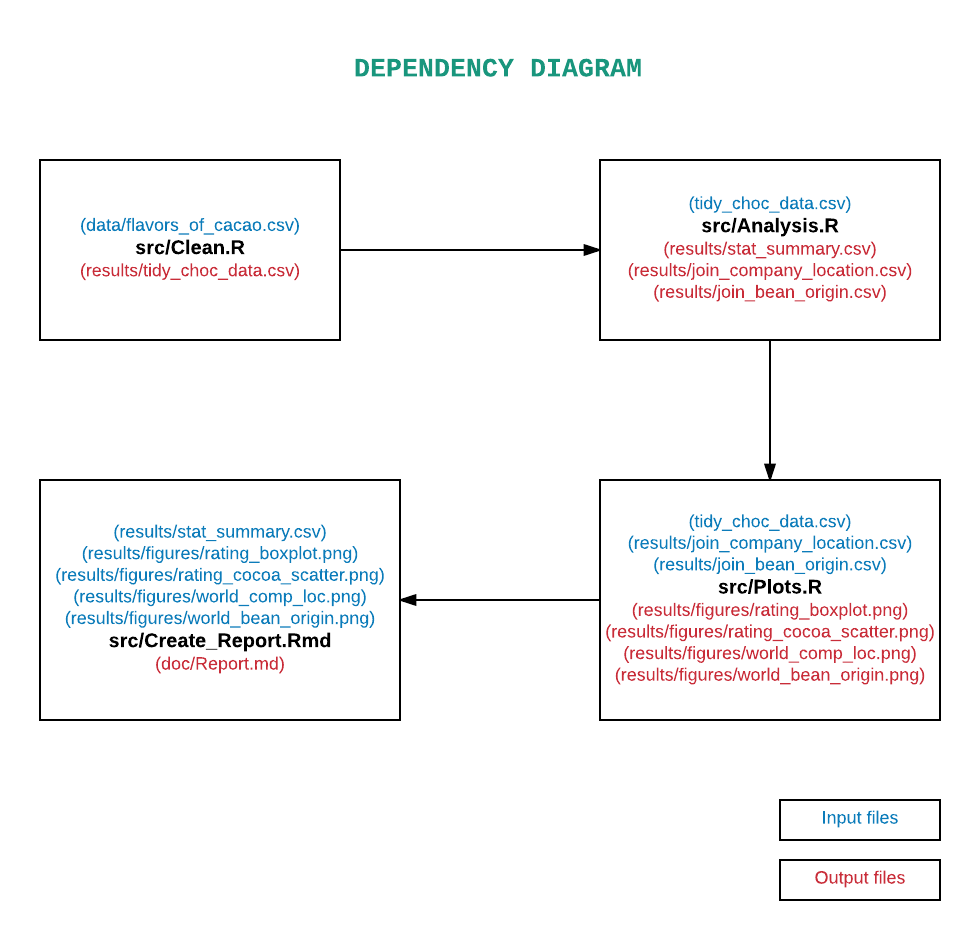
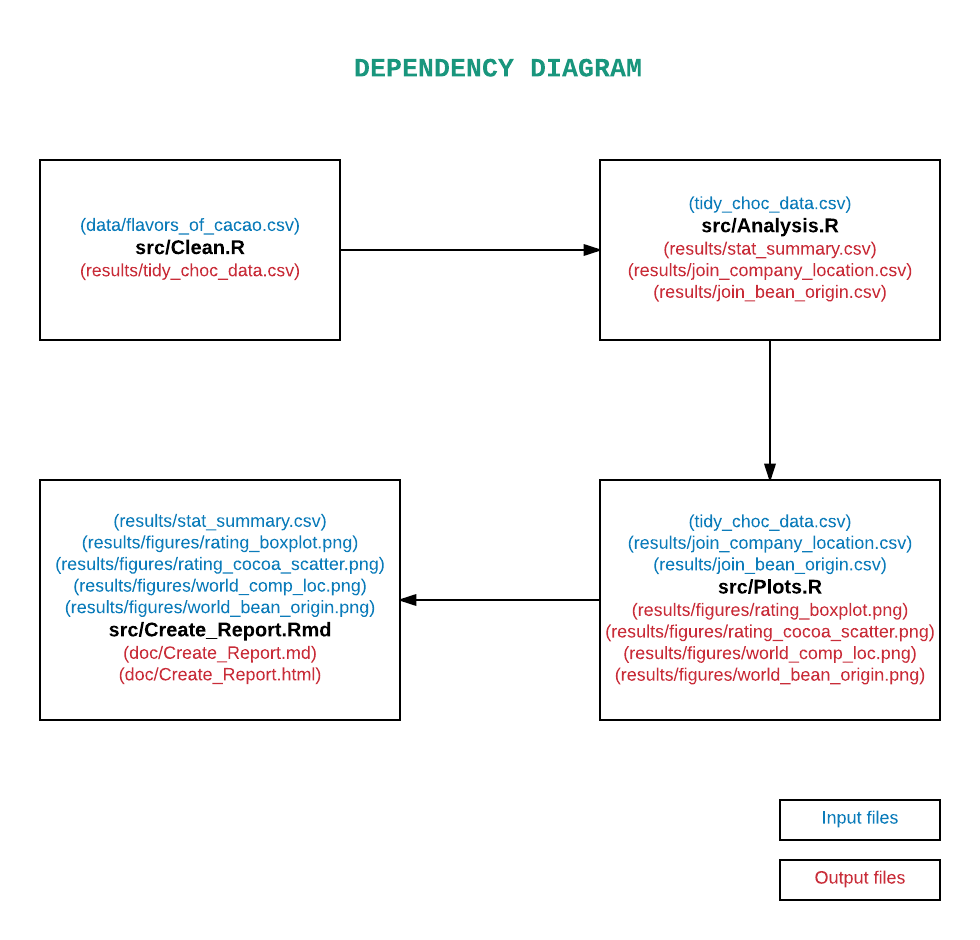
final changes to readme

Changed region(s): [[0.0612, 0.5245, 0.398, 0.7404]]

diff --git a/README.md b/README.md
@@ -84,7 +84,7 @@ Rscript src/Plots.R results/tidy_choc_data.csv results/join_company_location.csv
 This command runs src/Plots.R taking the tidy data and joint dataframes as input and creates 4 plots in results/figures folder.
 
 ```
-Rscript -e 'ezknitr::ezknit("src/Report.Rmd", out_dir = "doc")'
+Rscript -e 'ezknitr::ezknit("src/Create_Report.Rmd", out_dir = "doc")'
 ```
 This command runs src/Create_Report.Rmd taking the data summary and 4 plots as input and produces a rendered .md file in doc folder containing the plots and their interpretation.  
 
